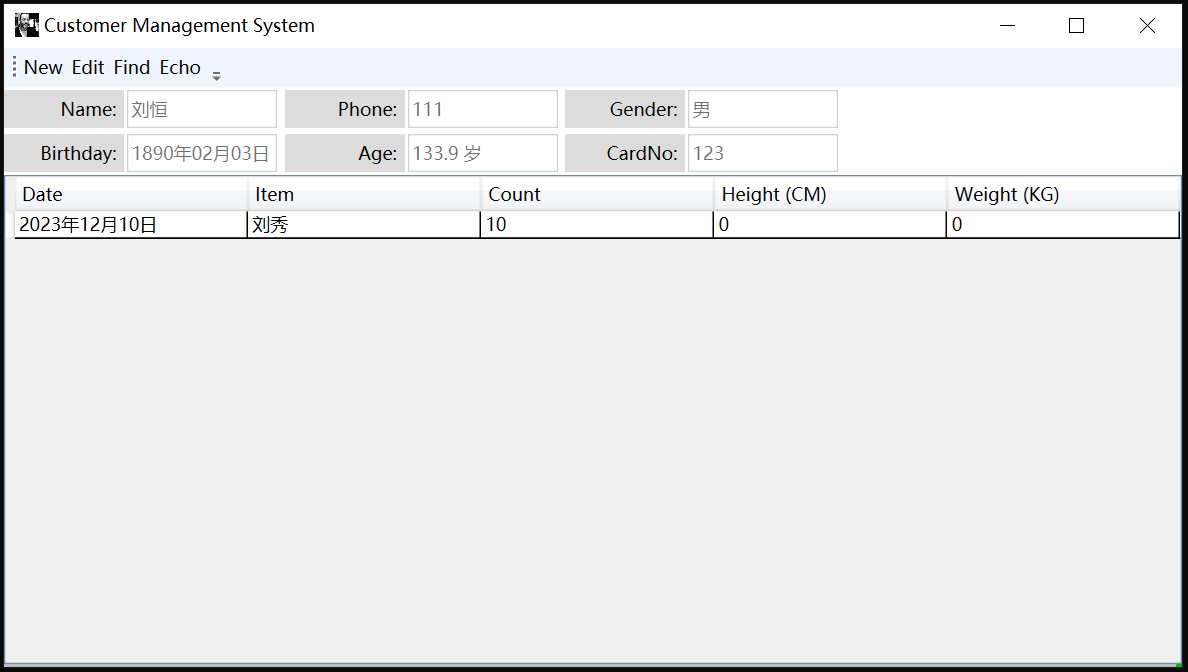
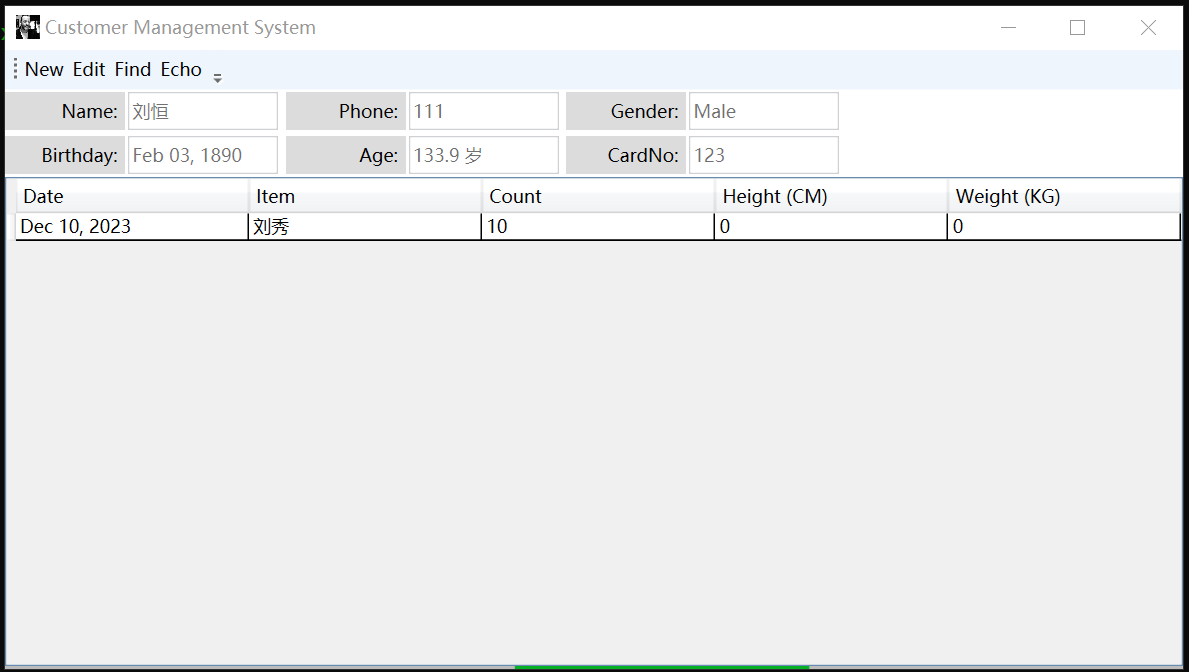
Update README.md

diff --git a/README.md b/README.md
@@ -1,2 +1,3 @@
-# Leo
+# Leo: A toy project for learning programming.
 ![](mainwindow.png)
+![](mainwindow.zh-CN.png)
